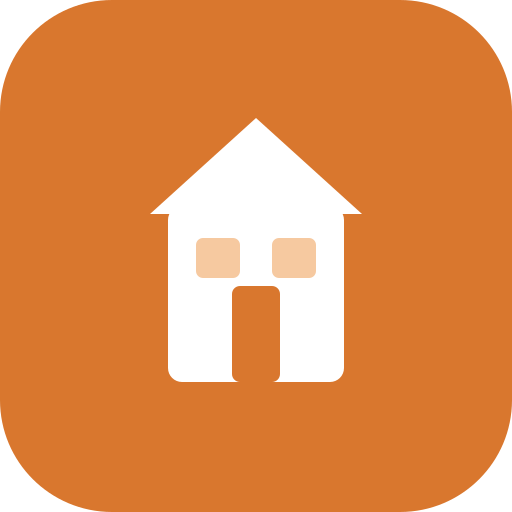
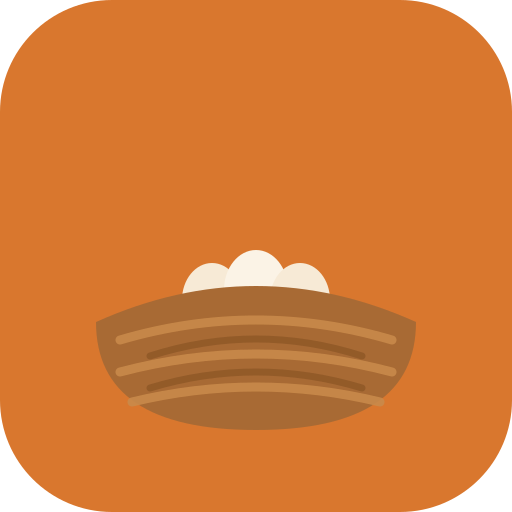
Add files via upload

Changed region(s): [[0.1875, 0.2188, 0.8125, 0.8438]]

diff --git a/index.html b/index.html
@@ -8,7 +8,7 @@
 <meta name="apple-mobile-web-app-capable" content="yes">
 <meta name="apple-mobile-web-app-status-bar-style" content="default">
 <link rel="apple-touch-icon" href="icon-192.png">
-<title>Family Hub</title>
+<title>Cuibul 🪹</title>
 <style>
   :root {
     --bg: #f4f1ec; --surface: #ffffff; --surface-2: #faf8f4; --border: #e7e1d7;
@@ -302,9 +302,9 @@
 </style>
 </head>
 <body>
-<div id="loadingScreen" class="fh-screen" hidden><div class="fh-card"><div class="fh-logo">🏡</div><div class="fh-title">Family Hub</div><div class="fh-sub">Loading…</div></div></div>
+<div id="loadingScreen" class="fh-screen" hidden><div class="fh-card"><div class="fh-logo">🏡</div><div class="fh-title">Cuibul 🪹</div><div class="fh-sub">Loading…</div></div></div>
 <div id="authScreen" class="fh-screen" hidden><div class="fh-card">
-  <div class="fh-logo">🏡</div><div class="fh-title">Family Hub</div>
+  <div class="fh-logo">🏡</div><div class="fh-title">Cuibul 🪹</div>
   <div class="fh-sub">Sign in to your family dashboard. We'll email you a magic link — no password to remember.</div>
   <input type="email" id="authEmail" placeholder="you@email.com" autocomplete="email" inputmode="email">
   <button class="btn block" id="authSend" style="margin-top:10px;">Email me a sign-in link</button>
@@ -326,7 +326,7 @@
   <header class="top">
     <button class="icon-btn" id="backBtn" hidden><span class="chev">‹</span> Back</button>
     <div class="head-titles">
-      <h1 id="familyName">Family Hub</h1>
+      <h1 id="familyName">Cuibul</h1>
       <div class="date" id="todayDate"></div>
     </div>
   </header>
@@ -545,6 +545,7 @@ const EV_TYPES={
 const REMIND_OPTS=[["none","No alert"],["start","At start time"],["10m","10 minutes before"],["30m","30 minutes before"],["1h","1 hour before"],["1d","1 day before"]];
 const REMIND_MIN={none:null,start:0,"10m":10,"30m":30,"1h":60,"1d":1440};
 const MEMBER_COLORS=["#d9772e","#4a7fb5","#4f9d69","#8367b0","#c65f86","#c7972f"];
+const BIRDS=["🐦","🦉","🐤","🐥","🐧","🦆","🕊","🦜"];
 const SHOP_COLORS=["#c0392b","#1f4e9c","#d4a017","#2e8b57","#7d3c98","#0e7c7b"];
 const SHOP_EMOJIS=["🏮","🧴","🛒","🥬","🏬","🛍","🧺","💊"];
 const GREETINGS=["Hello","Hi there","Hey","Howdy","Greetings","Buenos días","Bună dimineața","Ciao","Hallo","Bonjour","Guten Morgen","Olá","Salut","G'day","Namaste","Welcome back"];
@@ -565,6 +566,7 @@ function fmtDay(iso){ const d=new Date(iso+"T00:00:00"),t=new Date(todayISO()+"T
 function fmtDayLong(iso){ return new Date(iso+"T00:00:00").toLocaleDateString(undefined,{weekday:"long",day:"numeric",month:"long"}); }
 function fmtTime(t){ if(!t)return ""; const[h,m]=t.split(":"); const d=new Date(); d.setHours(+h,+m); return d.toLocaleTimeString(undefined,{hour:"numeric",minute:"2-digit"}); }
 function initials(n){ return n.trim().split(/\s+/).map(w=>w[0]).slice(0,2).join("").toUpperCase(); }
+function avGlyph(m){ if(!m)return ""; if(m.bird)return m.bird; const src=(m.id||m.name||"S"); let h=0; for(const c of src) h=(h+c.charCodeAt(0))%BIRDS.length; return BIRDS[h]; }
 function esc(s){ return String(s).replace(/[&<>"]/g,c=>({"&":"&amp;","<":"&lt;",">":"&gt;",'"':"&quot;"}[c])); }
 function emptyMsg(e,t){ return `<div class="empty"><span class="e-emoji">${e}</span>${t}</div>`; }
 
@@ -573,8 +575,8 @@ function seed(){
   const mA=uid(),mB=uid(),mC=uid();
   const sAsian=uid(),sDM=uid(),sNetto=uid();
   return {
-    name:"Family Hub", you:"Beatrice", theme:"auto",
-    members:[{id:mA,name:"Mum",color:MEMBER_COLORS[0]},{id:mB,name:"Dad",color:MEMBER_COLORS[1]},{id:mC,name:"Mia",color:MEMBER_COLORS[3]}],
+    name:"Cuibul", you:"Beatrice", theme:"auto",
+    members:[{id:mA,name:"Mum",color:MEMBER_COLORS[0],bird:"🐦"},{id:mB,name:"Dad",color:MEMBER_COLORS[1],bird:"🦉"},{id:mC,name:"Mia",color:MEMBER_COLORS[3],bird:"🐤"}],
     categories:DEFAULT_CATS.map(c=>({...c})),
     shops:[{id:sAsian,label:"Asian store",color:"#c0392b",emoji:"🏮"},{id:sDM,label:"DM",color:"#1f4e9c",emoji:"🧴"},{id:sNetto,label:"Netto",color:"#d4a017",emoji:"🛒"}],
     shopping:[
@@ -618,7 +620,7 @@ function seed(){
 let state;
 function migrate(s){
   s.meals=s.meals||{}; s.notes=s.notes||[]; s.members=s.members||[]; s.shopping=s.shopping||[];
-  s.reminders=s.reminders||[]; s.events=s.events||[]; s.theme=s.theme||"auto"; s.name=s.name||"Family Hub";
+  s.reminders=s.reminders||[]; s.events=s.events||[]; s.theme=s.theme||"auto"; s.name=s.name||"Cuibul";
   s.you=s.you||"Beatrice";
   if(!s.categories||!s.categories.length) s.categories=DEFAULT_CATS.map(c=>({...c}));
   if(!s.shops) s.shops=[{id:uid(),label:"Asian store"},{id:uid(),label:"DM"},{id:uid(),label:"Netto"}];
@@ -815,36 +817,36 @@ function renderToday(){
 
   // HERO: today's events
   const todayEvs=state.events.filter(e=>occursOn(e,t)).sort(sortEvents);
-  let hero=`<div class="h-lbl">📌 Today · ${new Date().toLocaleDateString(undefined,{weekday:"long",day:"numeric",month:"long"})}</div>`;
+  let hero=`<div class="h-lbl">🪹 Today · ${new Date().toLocaleDateString(undefined,{weekday:"long",day:"numeric",month:"long"})}</div>`;
   if(todayEvs.length){
     hero+=todayEvs.map(e=>{ const ty=EV_TYPES[e.type]||EV_TYPES.other;
       return `<div class="h-ev clickable" data-openevent="${e.id}"><div class="h-emoji">${ty.emoji}</div>
         <div class="h-main"><div class="h-title">${esc(e.title)}</div><div class="h-sub">${ty.label}${e.location?" · "+esc(e.location.split(",")[0]):""}</div></div>
         <div class="h-time">${e.time?fmtTime(e.time):"All day"}</div></div>`; }).join("");
-  } else { hero+=`<div class="h-none">No events today — enjoy the calm 🌤</div>`; }
+  } else { hero+=`<div class="h-none">A quiet day at the nest 🪹</div>`; }
   $("#todayHero").innerHTML=hero;
 
   // To buy preview
   $("#overviewShop").innerHTML = shopActive.length
     ? `<div class="shop-preview">`+shopActive.slice(0,8).map(i=>`<span class="shop-chip clickable" data-go="shopping">${esc(i.name)}${i.qty?` <span class="sc-qty">${esc(i.qty)}</span>`:""}</span>`).join("")+(shopActive.length>8?`<span class="shop-chip" data-go="shopping" style="color:var(--text-faint)">+${shopActive.length-8} more</span>`:"")+`</div>`
-    : emptyMsg("🛒","Nothing on the list");
+    : emptyMsg("🪹","The nest is stocked — nothing to buy");
 
   const next3=upcoming.slice(0,3);
   $("#overviewNext").innerHTML=next3.length?next3.map(e=>{ const ty=EV_TYPES[e.type]||EV_TYPES.other;
     return `<div class="overview-item clickable" data-openevent="${e.id}"><div class="oi-icon" style="background:${ty.soft}">${ty.emoji}</div>
       <div class="oi-main"><div class="oi-title">${esc(e.title)}</div><div class="oi-sub">${ty.label}${attLabel(e)}</div></div>
-      <div class="oi-when">${fmtDay(e.date)}${e.time?`<br>${fmtTime(e.time)}`:""}</div></div>`; }).join("") : emptyMsg("📅","No upcoming events");
+      <div class="oi-when">${fmtDay(e.date)}${e.time?`<br>${fmtTime(e.time)}`:""}</div></div>`; }).join("") : emptyMsg("🪹","No events in the nest yet");
 
   const todays=remActive.filter(r=>r.due===t||r.due==="");
   $("#overviewReminders").innerHTML=todays.length?todays.slice(0,5).map(r=>{ const who=member(r.who);
-    return `<div class="overview-item"><div class="check" data-remtoggle="${r.id}"></div><div class="oi-main"><div class="oi-title">${esc(r.text)}</div></div>${who?`<div class="avatar" style="background:${who.color}">${initials(who.name)}</div>`:""}</div>`; }).join("") : emptyMsg("🎉","Nothing due today");
+    return `<div class="overview-item"><div class="check" data-remtoggle="${r.id}"></div><div class="oi-main"><div class="oi-title">${esc(r.text)}</div></div>${who?`<div class="avatar" style="background:${who.color}">${avGlyph(who)}</div>`:""}</div>`; }).join("") : emptyMsg("🐤","Nothing due today — rest easy");
 
   let mealHtml=""; for(let i=0;i<7;i++){ const day=addDays(t,i); const m=state.meals[day];
     if(m&&m.dinner) mealHtml+=`<div class="overview-item"><div class="oi-icon" style="background:var(--amber-soft)">🍽</div><div class="oi-main"><div class="oi-title">${esc(m.dinner)}</div></div><div class="oi-when">${fmtDay(day)}</div></div>`; }
-  $("#overviewMeals").innerHTML=mealHtml||emptyMsg("🍽","No dinners planned yet — tap Plan");
+  $("#overviewMeals").innerHTML=mealHtml||emptyMsg("🍽","No dinners nested yet — tap Plan");
 
   $("#overviewNotes").innerHTML=state.notes.length?state.notes.slice(0,3).map(n=>{ const open=n.items.filter(i=>!i.done).length;
-    return `<div class="overview-item clickable" data-opennote="${n.id}"><div class="oi-icon" style="background:var(--purple-soft)">${n.emoji}</div><div class="oi-main"><div class="oi-title">${esc(n.title)}</div><div class="oi-sub">${open?`${open} open item${open>1?"s":""}`:"All done"}</div></div><div class="oi-when">${n.items.filter(i=>i.done).length}/${n.items.length}</div></div>`; }).join("") : emptyMsg("📝","No notes yet");
+    return `<div class="overview-item clickable" data-opennote="${n.id}"><div class="oi-icon" style="background:var(--purple-soft)">${n.emoji}</div><div class="oi-main"><div class="oi-title">${esc(n.title)}</div><div class="oi-sub">${open?`${open} open item${open>1?"s":""}`:"All done"}</div></div><div class="oi-when">${n.items.filter(i=>i.done).length}/${n.items.length}</div></div>`; }).join("") : emptyMsg("🪹","No notes in the nest yet");
 }
 function attLabel(e){ const ids=e.attendees||[]; if(!ids.length)return " · Everyone";
   const names=ids.map(id=>member(id)).filter(Boolean).map(m=>m.name); return names.length?" · "+names.join(", "):""; }
@@ -863,8 +865,8 @@ function renderShopping(){
   $$("#shopGroupToggle .gt-opt").forEach(b=>b.classList.toggle("on",b.dataset.g===shopGroup));
   const active=state.shopping.filter(i=>!i.done), done=state.shopping.filter(i=>i.done);
   const wrap=$("#shopList");
-  if(!active.length&&!done.length){ wrap.innerHTML=emptyMsg("🛒","Your list is empty — add something above"); }
-  else if(!active.length){ wrap.innerHTML=emptyMsg("✅","All done! Everything's checked off"); }
+  if(!active.length&&!done.length){ wrap.innerHTML=emptyMsg("🛒","The nest pantry’s bare — add something above"); }
+  else if(!active.length){ wrap.innerHTML=emptyMsg("✅","All gathered! Everything’s ticked off 🐣"); }
   else {
     let html="";
     if(shopGroup==="shop"){
@@ -959,11 +961,11 @@ let remFilter="active";
 function renderReminders(){
   const list=state.reminders.filter(r=>remFilter==="active"?!r.done:r.done).sort((a,b)=>{ if(!a.due)return 1; if(!b.due)return -1; return a.due<b.due?-1:1; });
   const wrap=$("#remList");
-  if(!list.length){ wrap.innerHTML=emptyMsg(remFilter==="active"?"🎉":"📭",remFilter==="active"?"No active reminders":"Nothing done yet"); return; }
+  if(!list.length){ wrap.innerHTML=emptyMsg(remFilter==="active"?"🎉":"📭",remFilter==="active"?"Nothing to do in the nest":"Nothing done yet"); return; }
   const t=todayISO();
   wrap.innerHTML=`<div class="card tight">`+list.map(r=>{ const who=member(r.who); let dueTxt="";
     if(r.due){ const overdue=r.due<t&&!r.done; dueTxt=`<span style="color:${overdue?"var(--pink)":"var(--text-soft)"}">${overdue?"⚠ ":""}${fmtDay(r.due)}</span>`; }
-    return `<div class="list-item"><div class="check ${r.done?"on":""}" data-remtoggle="${r.id}">${r.done?"✓":""}</div><div class="li-main"><div class="li-title ${r.done?"done":""}">${esc(r.text)}</div>${dueTxt?`<div class="li-sub">${dueTxt}</div>`:""}</div>${who?`<div class="avatar" style="background:${who.color}">${initials(who.name)}</div>`:""}<button class="del" data-remdel="${r.id}" aria-label="Delete">×</button></div>`; }).join("")+`</div>`;
+    return `<div class="list-item"><div class="check ${r.done?"on":""}" data-remtoggle="${r.id}">${r.done?"✓":""}</div><div class="li-main"><div class="li-title ${r.done?"done":""}">${esc(r.text)}</div>${dueTxt?`<div class="li-sub">${dueTxt}</div>`:""}</div>${who?`<div class="avatar" style="background:${who.color}">${avGlyph(who)}</div>`:""}<button class="del" data-remdel="${r.id}" aria-label="Delete">×</button></div>`; }).join("")+`</div>`;
 }
 
 /* ---------- Calendar ---------- */
@@ -977,7 +979,7 @@ function renderCalendar(){ const area=$("#calArea");
   area.innerHTML = calView==="agenda"?renderAgenda():calView==="week"?renderWeek():renderMonth(); }
 function renderAgenda(){
   const t=todayISO(); const list=state.events.filter(e=>occEnd(e)>=t).sort(sortEvents);
-  if(!list.length) return emptyMsg("📅","No upcoming events — add one above");
+  if(!list.length) return emptyMsg("🪹","No events in the nest yet — add one above");
   const byDay={}; list.forEach(e=>{ const disp=e.date<t?t:e.date; (byDay[disp]=byDay[disp]||[]).push(e); });
   let html=""; Object.keys(byDay).sort().forEach(day=>{ html+=`<div class="day-head">${fmtDay(day)}</div><div class="card tight">`; byDay[day].sort(sortEvents).forEach(e=>html+=eventRow(e)); html+=`</div>`; });
   return html;
@@ -992,7 +994,7 @@ function eventRow(e){ const ty=EV_TYPES[e.type]||EV_TYPES.other; const pend=attP
     <div class="ev-chevron">›</div></div>`;
 }
 function attAvatars(e){ const ids=(e.attendees&&e.attendees.length)?e.attendees:[]; if(!ids.length)return "";
-  return `<span class="avatar-stack">`+ids.slice(0,3).map(id=>{ const m=member(id); return m?`<span class="avatar" style="width:20px;height:20px;font-size:.62rem;background:${m.color}">${initials(m.name)}</span>`:""; }).join("")+`</span>`; }
+  return `<span class="avatar-stack">`+ids.slice(0,3).map(id=>{ const m=member(id); return m?`<span class="avatar" style="width:20px;height:20px;font-size:.62rem;background:${m.color}">${avGlyph(m)}</span>`:""; }).join("")+`</span>`; }
 function renderWeek(){
   const start=addDays(mondayOf(todayISO()),calWeekOffset*7);
   const sd=new Date(start+"T00:00:00"), ed=new Date(addDays(start,6)+"T00:00:00");
@@ -1008,7 +1010,7 @@ function renderWeek(){
   html+=`</div>`;
   const selEvs=eventsOn(calSelDay);
   html+=`<div class="sel-day-events"><div class="day-head">${fmtDayLong(calSelDay)}</div>`;
-  html+= selEvs.length?`<div class="card tight">${selEvs.map(eventRow).join("")}</div>`:emptyMsg("🗓","Nothing planned this day");
+  html+= selEvs.length?`<div class="card tight">${selEvs.map(eventRow).join("")}</div>`:emptyMsg("🗓","A calm day at the nest");
   html+=`</div>`;
   return html;
 }
@@ -1028,7 +1030,7 @@ function renderMonth(){
   html+=`</div>`;
   const selEvs=eventsOn(calSelDay);
   html+=`<div class="sel-day-events"><div class="day-head">${fmtDayLong(calSelDay)}</div>`;
-  html+= selEvs.length?`<div class="card tight">${selEvs.map(eventRow).join("")}</div>`:emptyMsg("🗓","Nothing on this day");
+  html+= selEvs.length?`<div class="card tight">${selEvs.map(eventRow).join("")}</div>`:emptyMsg("🗓","A calm day at the nest");
   html+=`</div>`;
   return html;
 }
@@ -1036,7 +1038,7 @@ function renderMonth(){
 /* ---------- Notes ---------- */
 function renderNotes(){
   const wrap=$("#noteList");
-  if(!state.notes.length){ wrap.innerHTML=emptyMsg("📝","No notes yet — create one above"); wrap.classList.remove("note-grid"); return; }
+  if(!state.notes.length){ wrap.innerHTML=emptyMsg("🪹","No notes in the nest yet — create one above"); wrap.classList.remove("note-grid"); return; }
   wrap.classList.add("note-grid");
   wrap.innerHTML=state.notes.map(n=>{ const total=n.items.length,done=n.items.filter(i=>i.done).length,pct=total?Math.round(done/total*100):0;
     return `<div class="note-card" data-opennote="${n.id}"><div class="nc-emoji">${n.emoji}</div><div class="nc-title">${esc(n.title)}</div><div class="nc-prog">${total?`${done}/${total} done`:"Empty"}</div>${total?`<div class="nc-bar"><div class="nc-fill" style="width:${pct}%"></div></div>`:""}</div>`; }).join("");
@@ -1047,7 +1049,7 @@ function renderMore(){
   $("#hubRem").textContent=`${state.reminders.filter(r=>!r.done).length} active`;
   $("#hubNotes").textContent=`${state.notes.length} note${state.notes.length!==1?"s":""}`;
   $("#setName").value=state.name; $("#setYou").value=state.you||"";
-  $("#memberList").innerHTML=state.members.map(m=>`<span class="member-tag"><span class="avatar" style="background:${m.color}">${initials(m.name)}</span>${esc(m.name)}<button class="del" data-memdel="${m.id}" style="font-size:1rem;padding:0 2px" aria-label="Remove">×</button></span>`).join("");
+  $("#memberList").innerHTML=state.members.map(m=>`<span class="member-tag"><span class="avatar" style="background:${m.color}">${avGlyph(m)}</span>${esc(m.name)}<button class="del" data-memdel="${m.id}" style="font-size:1rem;padding:0 2px" aria-label="Remove">×</button></span>`).join("");
   $$("#themeSeg button").forEach(b=>b.classList.toggle("on",b.dataset.t===(state.theme||"auto")));
   $("#alertToggle").textContent = alertsEnabled?"✓ Browser alerts on":"Enable browser alerts";
 }
@@ -1121,7 +1123,7 @@ document.addEventListener("click",e=>{
 /* ---------- settings: name/members/shops/cats/theme ---------- */
 $("#saveName").onclick=()=>{ const v=$("#setName").value.trim(); const y=$("#setYou").value.trim();
   if(v){ state.name=v; $("#familyName").textContent=v; } if(y){ state.you=y; } save(); renderToday(); pushPresence(); };
-function addMember(){ const inp=$("#memberInput"),v=inp.value.trim(); if(!v)return; state.members.push({id:uid(),name:v,color:MEMBER_COLORS[state.members.length%MEMBER_COLORS.length]}); inp.value=""; save(); renderMore(); }
+function addMember(){ const inp=$("#memberInput"),v=inp.value.trim(); if(!v)return; state.members.push({id:uid(),name:v,color:MEMBER_COLORS[state.members.length%MEMBER_COLORS.length],bird:BIRDS[state.members.length%BIRDS.length]}); inp.value=""; save(); renderMore(); }
 $("#memberAddBtn").onclick=addMember; $("#memberInput").addEventListener("keydown",e=>{ if(e.key==="Enter")addMember(); });
 $$("#themeSeg button").forEach(b=>b.onclick=()=>{ state.theme=b.dataset.t; save(); applyTheme(); renderMore(); });
 $("#resetBtn").onclick=()=>{ if(confirm("Reset everything back to the sample data?")){ state=seed(); save(); renderAll(); go("today",{root:true}); } };
@@ -1188,7 +1190,7 @@ function renderEvDetail(e){
   const needed=attNeeded(e), pend=attPending(e);
   const remLbl=(REMIND_OPTS.find(o=>o[0]===e.remind)||["none","No alert"])[1];
   let attHtml=needed.map(id=>{ const m=member(id); if(!m)return""; const ok=(e.confirmedBy||[]).includes(id);
-    return `<button class="chip confirm-chip ${ok?"active":""}" data-confirm="${id}"><span class="avatar" style="width:18px;height:18px;font-size:.6rem;background:${m.color}">${initials(m.name)}</span>${esc(m.name)} ${ok?"✓":""}</button>`; }).join("");
+    return `<button class="chip confirm-chip ${ok?"active":""}" data-confirm="${id}"><span class="avatar" style="width:18px;height:18px;font-size:.6rem;background:${m.color}">${avGlyph(m)}</span>${esc(m.name)} ${ok?"✓":""}</button>`; }).join("");
   const statusHtml = pend.length
     ? `<div class="status-line" style="color:var(--pink)">⏳ Awaiting: ${pend.map(id=>member(id)?member(id).name:"").filter(Boolean).join(", ")}</div>`
     : `<div class="status-line" style="color:var(--green)">✓ Everyone confirmed</div>`;

diff --git a/service-worker.js b/service-worker.js
@@ -1,4 +1,4 @@
-const CACHE="familyhub-v1";
+const CACHE="familyhub-v2";
 const ASSETS=["./","index.html","config.js","manifest.webmanifest","icon-192.png","icon-512.png"];
 self.addEventListener("install",e=>{ e.waitUntil(caches.open(CACHE).then(c=>c.addAll(ASSETS)).then(()=>self.skipWaiting())); });
 self.addEventListener("activate",e=>{ e.waitUntil(caches.keys().then(ks=>Promise.all(ks.filter(k=>k!==CACHE).map(k=>caches.delete(k)))).then(()=>self.clients.claim())); });
